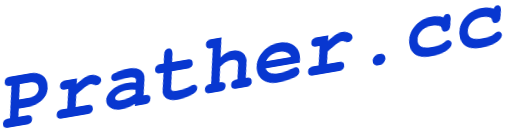
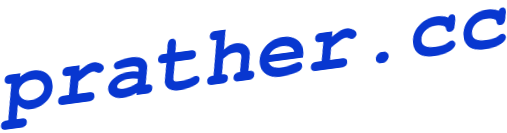
Updates

Changed region(s): [[0.0, 0.2105, 0.7692, 0.9925], [0.7988, 0.0301, 1.0, 0.4511], [0.0, 0.6917, 0.0296, 0.7218]]

diff --git a/public/index.html b/public/index.html
@@ -30,7 +30,7 @@
       work correctly both with client-side routing and a non-root public URL.
       Learn how to configure a non-root public URL by running `npm run build`.
     -->
-    <title>Prather Software</title>
+    <title>prather.cc</title>
   </head>
   <body>
     <noscript>You need to enable JavaScript to run this app.</noscript>
